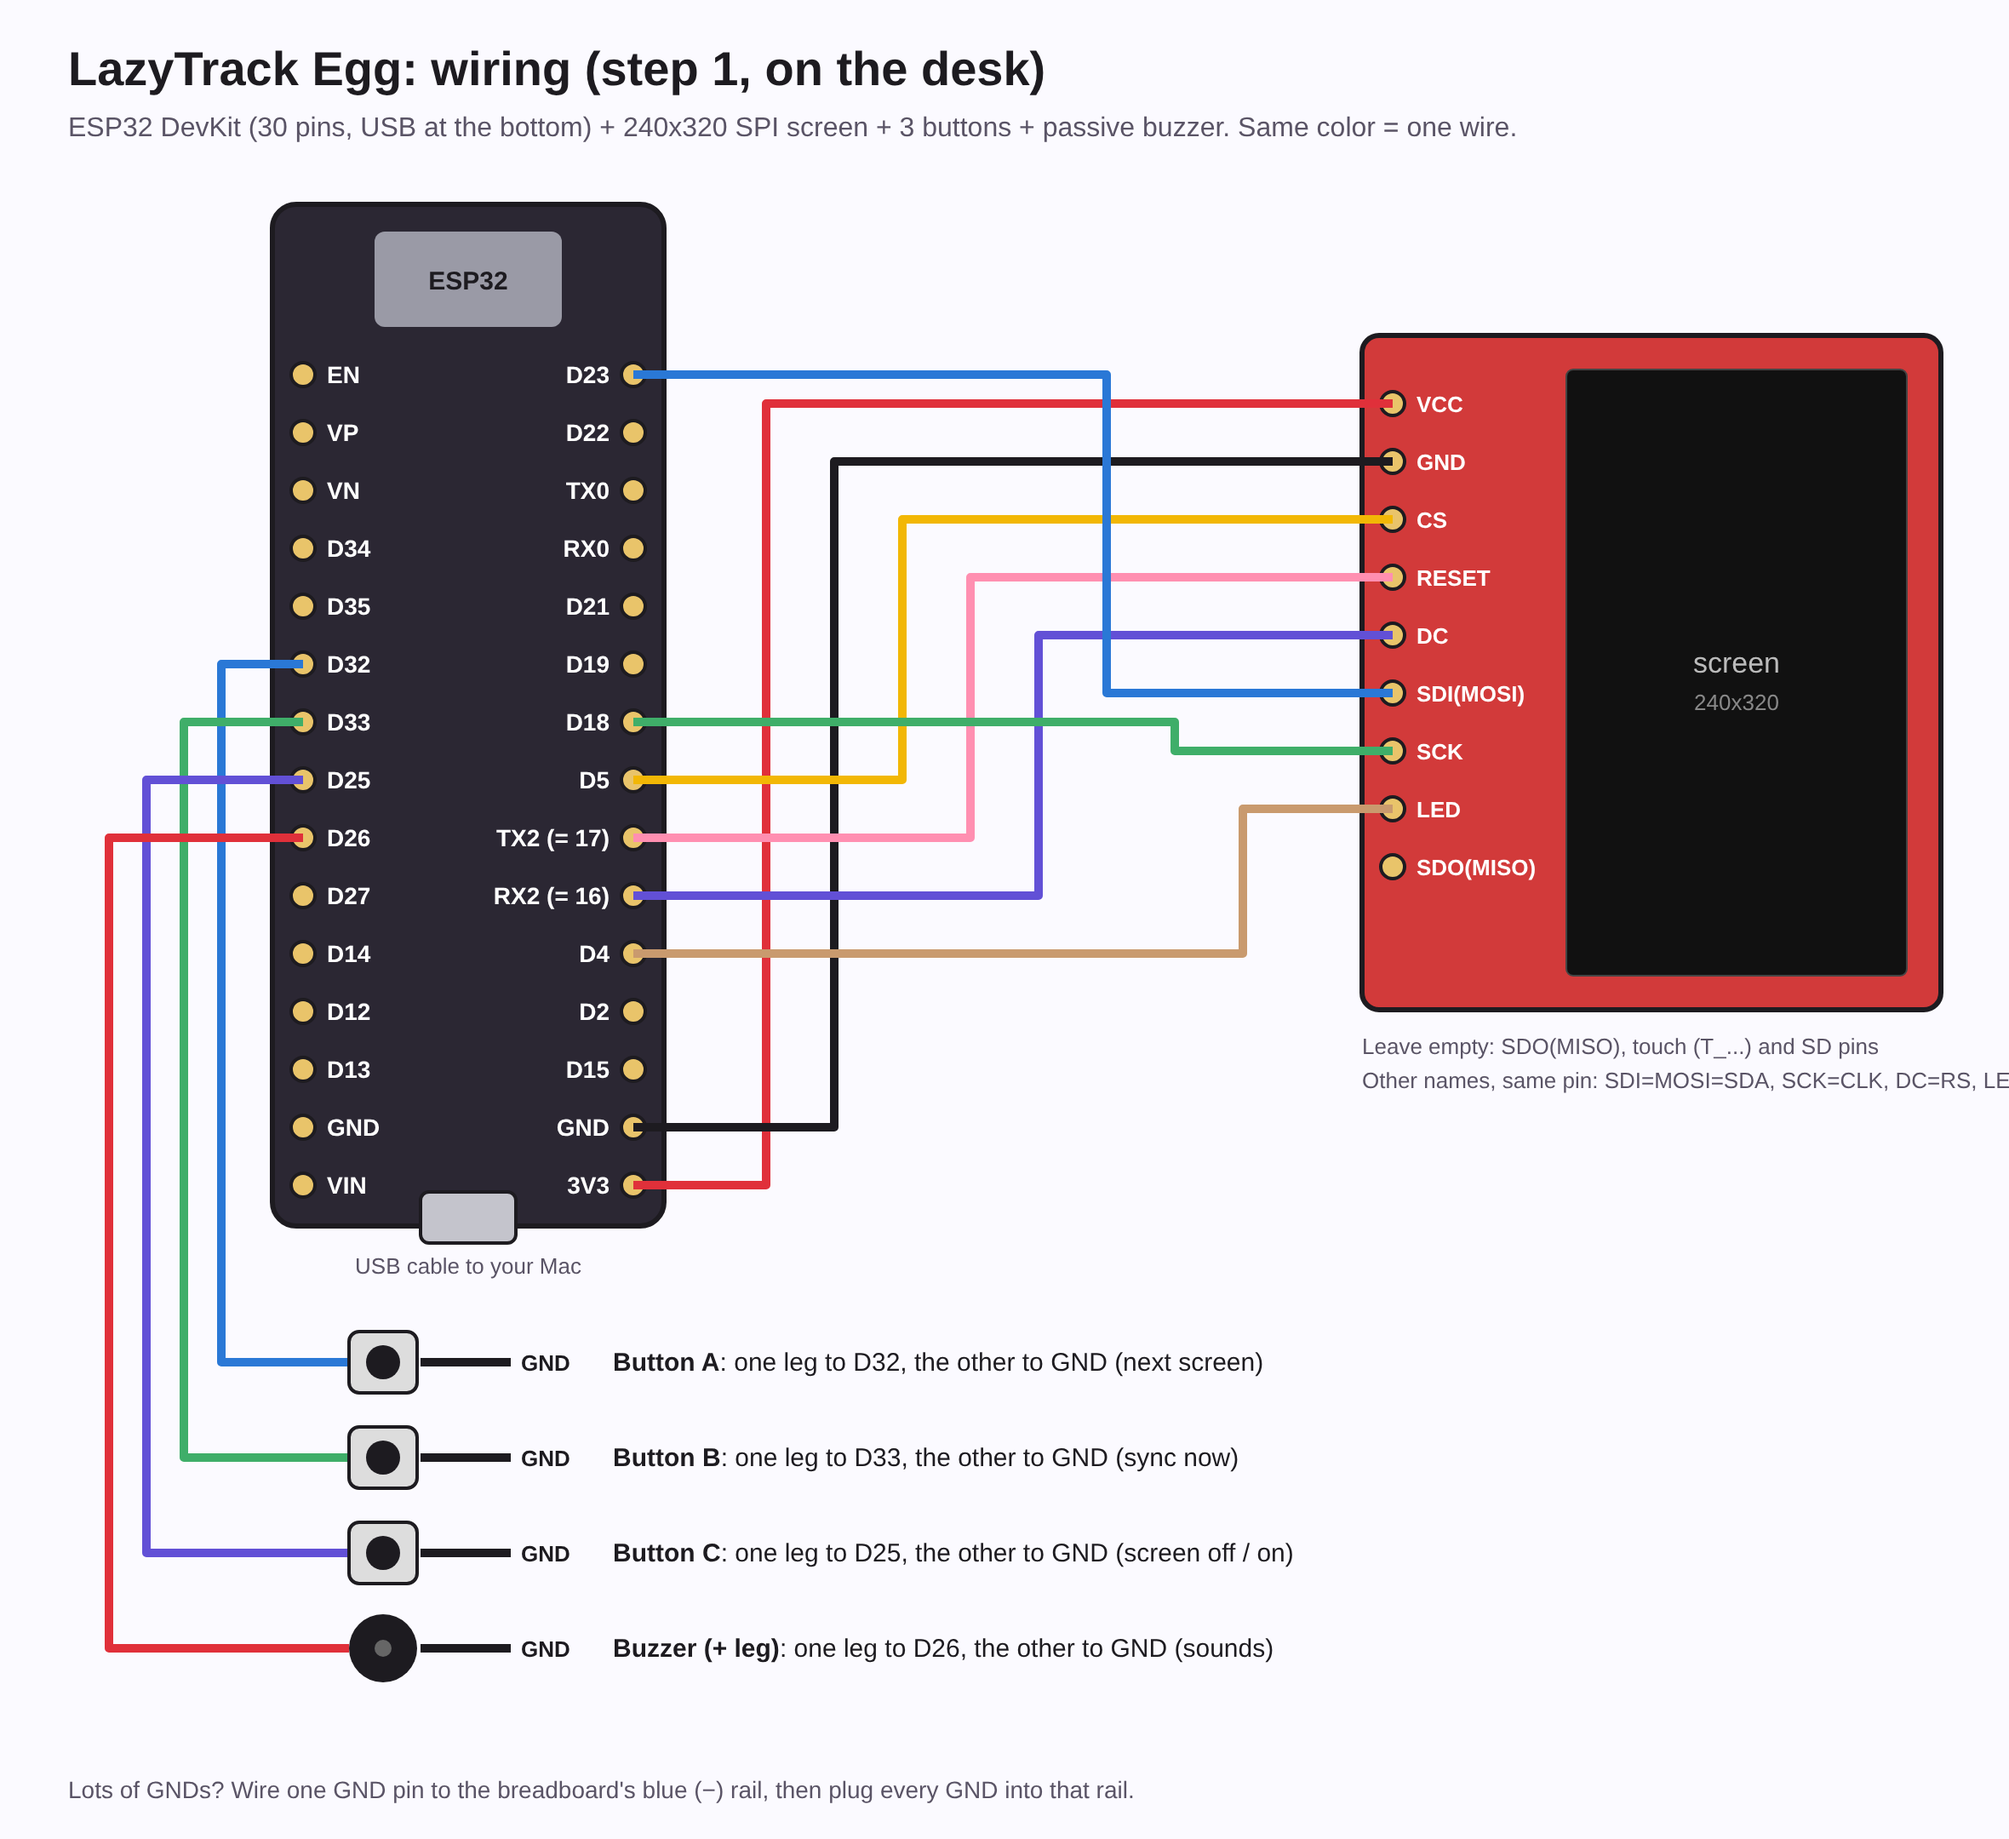
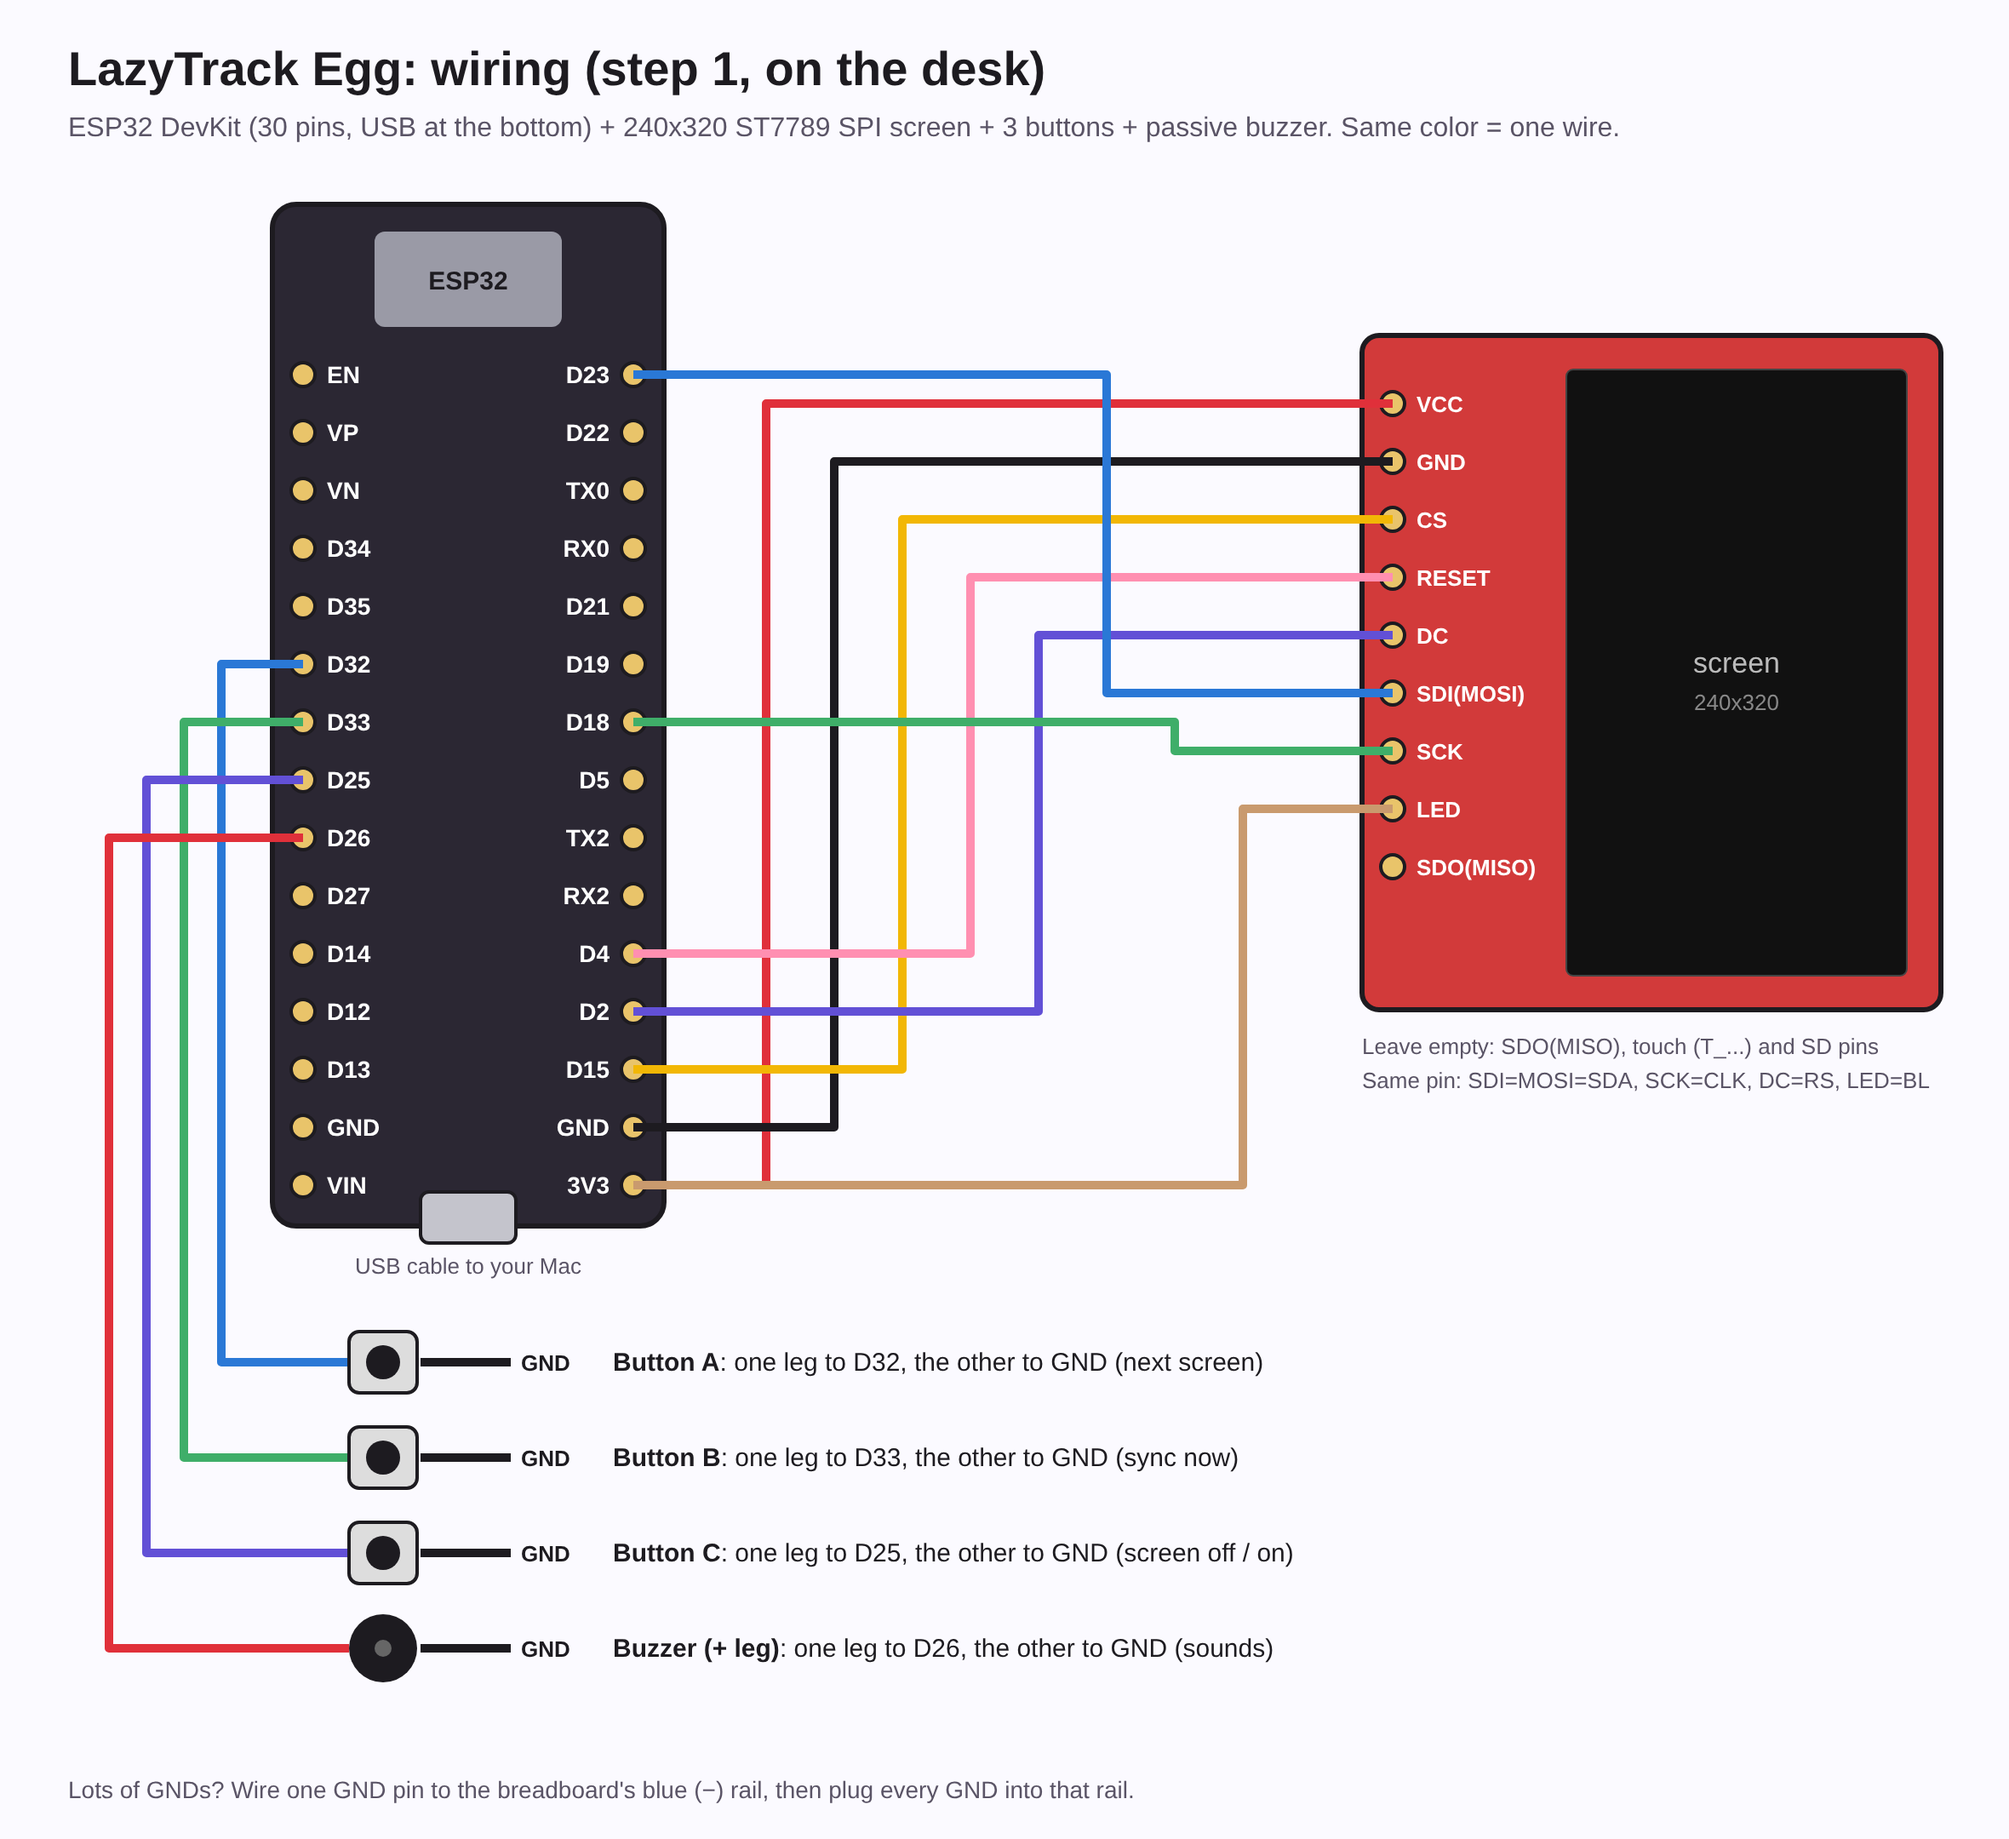
Egg: default to ST7789 on the same pins as a TFT_eSPI setup (CS 15, DC 2, RST 4, backlight on 3.3V)
Claude-Session: https://claude.ai/code/session_018RBnzWewpfYwd3k2robD2X

diff --git a/device/README.md b/device/README.md
@@ -17,12 +17,12 @@ It logs into your LazyTrack account over WiFi and reads your friend card every m
 |---|---|
 | VCC | 3V3 |
 | GND | GND |
-| CS | GPIO 5 |
-| RESET / RST | GPIO 17 |
-| DC / RS | GPIO 16 |
+| CS | GPIO 15 (D15) |
+| RESET / RST | GPIO 4 (D4) |
+| DC / RS | GPIO 2 (D2) |
 | SDI / MOSI / SDA | GPIO 23 |
 | SCK / CLK | GPIO 18 |
-| LED / BL | GPIO 4 (or 3V3: always on) |
+| LED / BL | 3V3 (always on) |
 | SDO / MISO | not needed |
 
 | Part | ESP32 pin |
@@ -43,7 +43,7 @@ Buttons need no resistors: the ESP32's own pull-ups are used. Touch pins on the 
 3. **Open** `device/LazyTrackEgg/LazyTrackEgg.ino`.
 4. **Your secrets:** copy `secrets.example.h` to `secrets.h` (same folder) and fill in your WiFi and LazyTrack email + password.
    `secrets.h` is ignored by git, so it never goes to GitHub.
-5. **Your screen chip:** at the top of the sketch, keep `#define SCREEN_ILI9341` or switch to `SCREEN_ST7789` (it's printed on the back of the screen board, or in the shop listing).
+5. **Your screen chip:** the sketch is set to ST7789 (what most 2.0" 240x320 screens use). For an ILI9341, switch the two lines at the top.
 6. Tools → Board → **ESP32 Dev Module**, Tools → Port → the USB port that appears when you plug it in. Press **Upload** (→).
    If it says "Connecting....___" for a long time, hold the **BOOT** button on the ESP32 until it starts writing.
 7. Tools → Serial Monitor at 115200 shows what it's doing if something's off.
@@ -51,7 +51,7 @@ Buttons need no resistors: the ESP32's own pull-ups are used. Touch pins on the 
 ## If something's off
 
 - **White or black screen:** wiring, or the wrong chip setting (try the other one).
-- **Colors look inverted or wrong:** in the sketch, change `true /* IPS */` to `false` (ST7789), or set it to `true` for the ILI9341 line.
+- **Colors look like a photo negative:** set `SCREEN_INVERT` at the top to `true`.
 - **"Login failed":** the email/password in `secrets.h`. **"No card yet":** open LazyTrack on your computer once while logged in.
 - The bottom line shows the status; screen C (press A twice) has WiFi, IP and the last sync.
 
